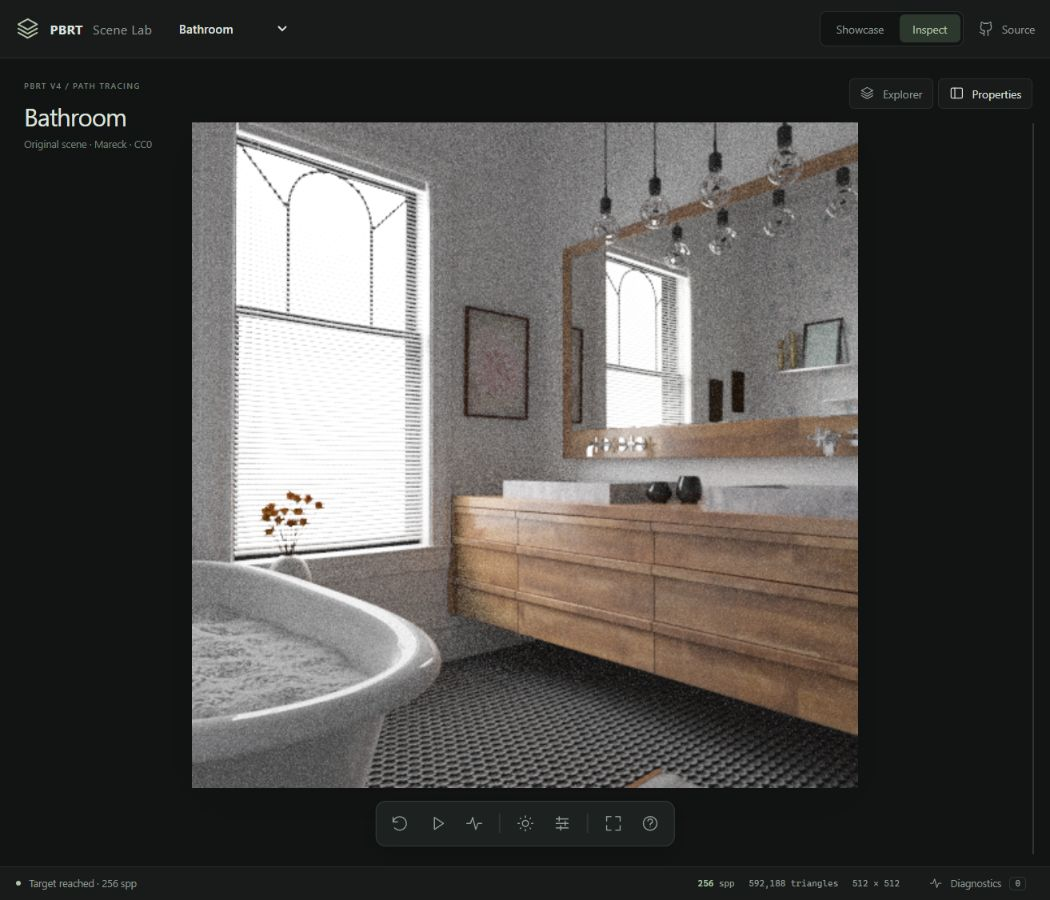
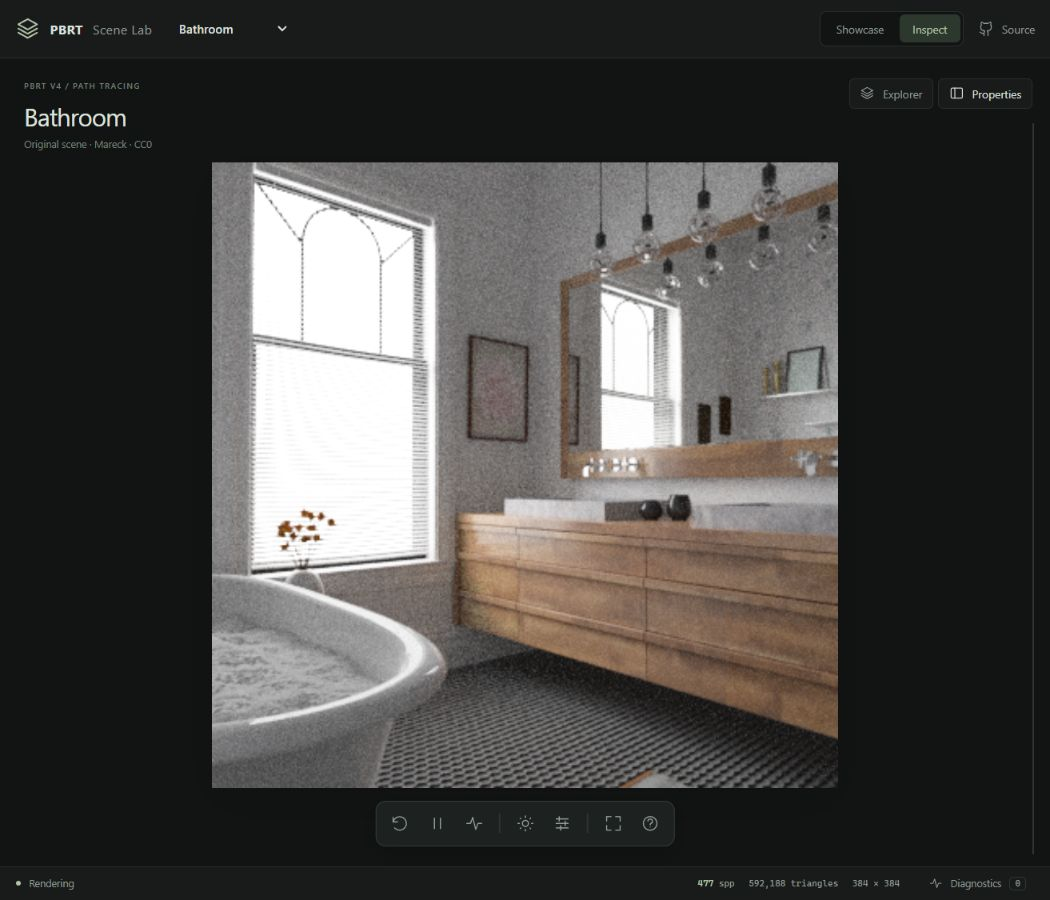
fix(web): reserve the scene caption above square Film previews

Changed region(s): [[0.1829, 0.1244, 0.8229, 0.9022], [0.0305, 0.9644, 0.1219, 0.9956]]

diff --git a/web/src/style.css b/web/src/style.css
@@ -15,3 +15,7 @@
 @media(max-width:650px){.topbar .brand{flex:1 1 calc(100% - 44px)}.topbar .github-link{margin-left:0}.scene-picker{flex:1 1 40%}}
 
 .property-row,.property-row code,.property-section>summary{font-size:11px}.parameter small{font-size:10px}
+
+/* Reserve the caption band: square Film images must not sit behind the title. */
+@media(min-width:651px){.film-area{top:104px}}
+@media(max-width:650px) and (max-height:520px){.scene-caption{top:12px}.scene-caption .eyebrow,.scene-caption p{display:none}.scene-caption h1{font-size:17px;margin-top:0}.film-area{top:45px;bottom:64px}.floating-toolbar{bottom:10px}}

diff --git a/docs/webgpu-ui-redesign.md b/docs/webgpu-ui-redesign.md
@@ -36,6 +36,7 @@ Diagnostics is a closed-by-default bottom drawer with Scene, GPU checks and Acti
 - Paused accumulation stayed at **41 spp** with a **512×512** backbuffer when changing desktop to mobile dimensions. Mode toggles, panel resizing, searches and list navigation also preserved samples.
 - Searched and selected Bathroom `Texture02`; its `rug_mask.tga`, 1024×1024 size, 11 mip levels, float/linear role and full Raw Data were observed. Virtual-list End navigation reached the final geometry rows with approximately 24 mounted rows.
 - Manual depth **35**, scene defaults, preview resolution, seed and target **16 spp** were exercised. Automatic pause and actual `spaceship-16spp.pfm` download succeeded. Camera arrow-key input restarted accumulation. Exposure remains display-only.
+- A final screenshot review caught a square-Film overlap with the scene caption. Desktop / tablet layouts now reserve a separate caption band; narrow landscape screens use a compact caption.
 - A mobile header issue found during observation (scene selector reduced to an arrow) was corrected to an explicit two-row layout. Final selector width was approximately 212 px at a 390 px viewport.
 - Fullscreen was rejected by the embedded test browser; the English fallback was verified. Actual fullscreen display in a standalone browser is not certified here.
 
